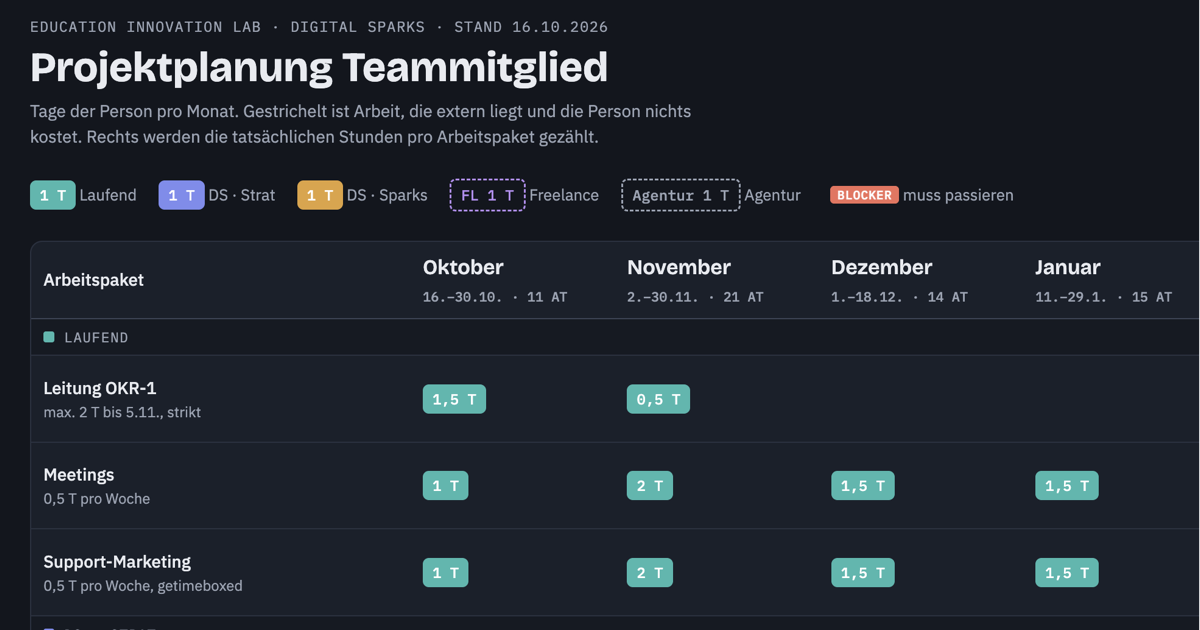
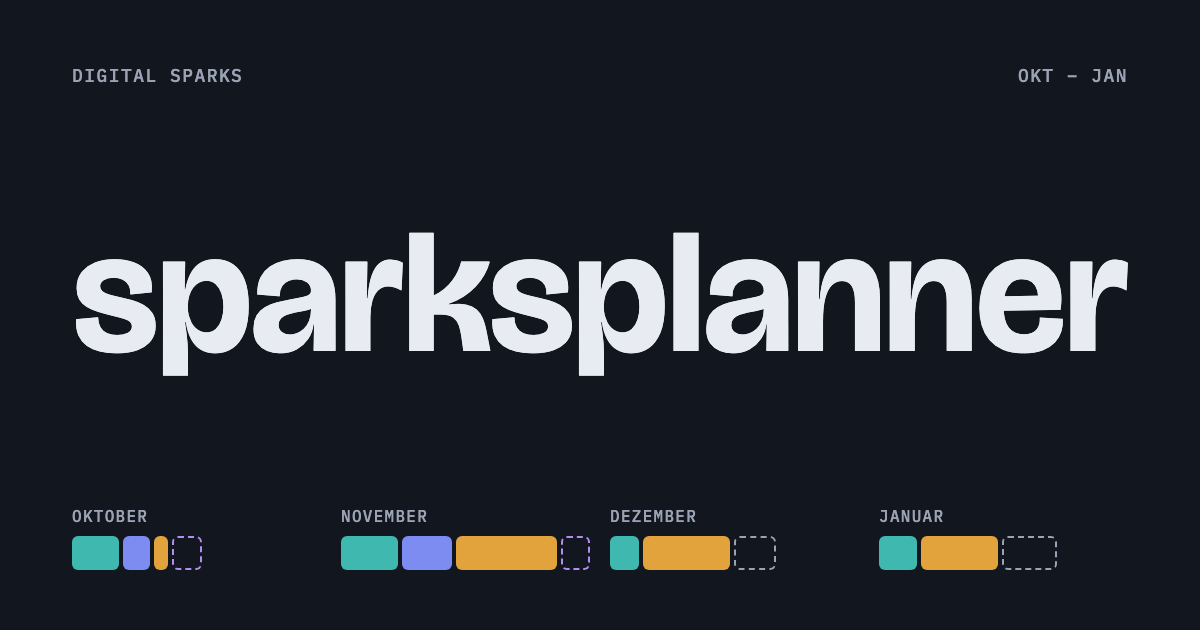
Neues Social Image: sparksplanner + Monatsstreifen aus plan.js

diff --git a/og/og.html b/og/og.html
@@ -1,0 +1,62 @@
+<!doctype html>
+<html lang="de">
+<head>
+<meta charset="utf-8">
+<!-- Quelle für ../og.png (1200 × 630). Neu rendern:
+     "/Applications/Google Chrome.app/Contents/MacOS/Google Chrome" --headless=new \
+       --window-size=1200,630 --hide-scrollbars --virtual-time-budget=5000 \
+       --screenshot=og.png "file://$PWD/og/og.html"
+     Der Monatsstreifen unten wird live aus plan.js berechnet. -->
+<link rel="stylesheet" href="https://fonts.googleapis.com/css2?family=Bricolage+Grotesque:opsz,wght@12..96,700;12..96,800&family=IBM+Plex+Mono:wght@500&display=block">
+<style>
+  :root{
+    --bg:#12161E; --surface:#1A202B; --ink:#E8EBF1; --muted:#9AA3B3; --line:#2A3140;
+    --eil:#3FB8AF; --strat:#7D8CF0; --sparks:#E2A23C; --fl:#B58CF0;
+  }
+  *{box-sizing:border-box}
+  html,body{margin:0;width:1200px;height:630px;overflow:hidden;background:var(--bg);color:var(--ink)}
+  .card{position:relative;width:1200px;height:630px;padding:64px 72px 60px;display:grid;grid-template-rows:auto 1fr auto}
+  .top{display:flex;justify-content:space-between;font:500 18px "IBM Plex Mono",monospace;letter-spacing:.08em;text-transform:uppercase;color:var(--muted)}
+  h1{margin:0;align-self:center;font-family:"Bricolage Grotesque",sans-serif;font-weight:700;font-size:190px;line-height:.9;letter-spacing:-.01em;white-space:nowrap}
+  .months{display:grid;grid-template-columns:repeat(4,1fr);gap:20px}
+  .m{display:grid;gap:10px}
+  .m b{font:500 16px "IBM Plex Mono",monospace;letter-spacing:.08em;text-transform:uppercase;color:var(--muted);font-weight:500}
+  .bar{display:flex;gap:4px;height:34px}
+  .bar i{display:block;border-radius:6px;min-width:6px}
+  .bar i.ext{border:2px dashed var(--fl);background:transparent}
+  .bar i.ag{border-color:var(--muted)}
+</style>
+</head>
+<body>
+<div class="card">
+  <div class="top"><span>Digital Sparks</span><span id="range"></span></div>
+  <h1 id="h">sparksplanner</h1>
+  <div class="months" id="months"></div>
+</div>
+<script src="../plan.js"></script>
+<script>
+  const P = window.PLAN, M = P.months;
+  const col = { base: "var(--eil)", strat: "var(--strat)", sparks: "var(--sparks)" };
+  document.getElementById("range").textContent = `${M[0].n.slice(0, 3)} – ${M[M.length - 1].n.slice(0, 3)}`;
+  // Pro Monat: ein Streifen, Breite = Anteil an der Kapazität, Farbe = Arbeitsstrom, gestrichelt = extern
+  const maxCap = Math.max(...M.map((m) => m.cap));
+  document.getElementById("months").innerHTML = M.map((m) => {
+    const seg = [];
+    for (const s of Object.keys(P.streams)) {
+      const d = P.rows.filter((r) => r.s === s).reduce((a, r) => a + ((r.p || {})[m.k] || 0), 0);
+      if (d) seg.push(`<i style="flex:${d};background:${col[s]}"></i>`);
+    }
+    const fl = P.rows.reduce((a, r) => a + ((r.fl || {})[m.k] || 0), 0);
+    const ag = P.rows.reduce((a, r) => a + ((r.ag || {})[m.k] || 0), 0);
+    if (fl) seg.push(`<i class="ext" style="flex:${fl}"></i>`);
+    if (ag) seg.push(`<i class="ext ag" style="flex:${ag}"></i>`);
+    return `<div class="m"><b>${m.n}</b><div class="bar" style="width:${(m.cap / maxCap) * 100}%">${seg.join("")}</div></div>`;
+  }).join("");
+  // Schriftzug auf volle Breite einpassen
+  document.fonts.ready.then(() => {
+    const h = document.getElementById("h"), max = 1200 - 144;
+    h.style.fontSize = (190 * max / h.scrollWidth) + "px";
+  });
+</script>
+</body>
+</html>

diff --git a/index.html b/index.html
@@ -8,7 +8,7 @@
 <meta name="description" content="Monatsplanung und Stunden-Tracking · Digital Sparks, Education Innovation Lab">
 <meta property="og:type" content="website">
 <meta property="og:url" content="https://sparksplanner.vercel.app/">
-<meta property="og:title" content="Projektplanung Teammitglied · Digital Sparks">
+<meta property="og:title" content="sparksplanner · Digital Sparks">
 <meta property="og:description" content="Monatsplanung und Stunden-Tracking · Okt 2026 – Jan 2027">
 <meta property="og:image" content="https://sparksplanner.vercel.app/og.png">
 <meta property="og:image:width" content="1200">

diff --git a/CLAUDE.md b/CLAUDE.md
@@ -8,7 +8,8 @@ Monatsplanung und geteiltes Stunden-Tracking für ein Teammitglied im Projekt Di
 - `api/login.js` + `api/_auth.js`: Login-Modal, signiertes HttpOnly-Cookie (30 Tage); `api/hours.js` antwortet ohne Login mit 401
 - Export/Import (Buttons oben rechts nach Login): JSON `{app, exported, hours:{id:h}, rows}`; Import → `POST /api/hours {set}` = Upsert absoluter Werte
 - Mobil (≤720px): Monats-Tabs oben (sticky), Tabelle zeigt nur gewählten Monat (`.mc`/`.on`), Auswahl in localStorage `sp-month`; Standard = aktueller Monat
-- `og.png`: Social Image (1200×630), Meta-Tags in `index.html` mit absoluter URL
+- `og.png`: Social Image (1200×630), Quelle `og/og.html` (liest plan.js, Render-Befehl im Kommentar), Meta-Tags in `index.html` mit absoluter URL
+- `.vercelignore`: og/, supabase/, Doku werden nicht deployed
 - Env-Variablen: `SUPABASE_URL` + `SUPABASE_SECRET_KEY` (oder `SUPABASE_SERVICE_ROLE_KEY`), `PLANNER_USERS` (`gina:passwort,…`), optional `PLANNER_SECRET`
 
 ## Regeln

diff --git a/README.md b/README.md
@@ -13,7 +13,7 @@ Monatsplanung und geteiltes Stunden-Tracking für ein Teammitglied im Projekt Di
 | `api/hours.js` | Vercel-Funktion: speichert die Ist-Stunden in Supabase (nur mit Login) |
 | `api/login.js` | Anmelden/Abmelden, setzt ein signiertes Sitzungs-Cookie |
 | `api/_auth.js` | Login-Hilfen (Passwortprüfung, Cookie) |
-| `og.png` | Vorschaubild für geteilte Links (1200 × 630) |
+| `og.png` | Vorschaubild für geteilte Links (1200 × 630), Quelle `og/og.html` |
 | `supabase/schema.sql` | Tabelle `ds_hours` + Funktion `ds_add_hours`, einmal im Supabase SQL Editor ausführen |
 
 ## Plan ändern
